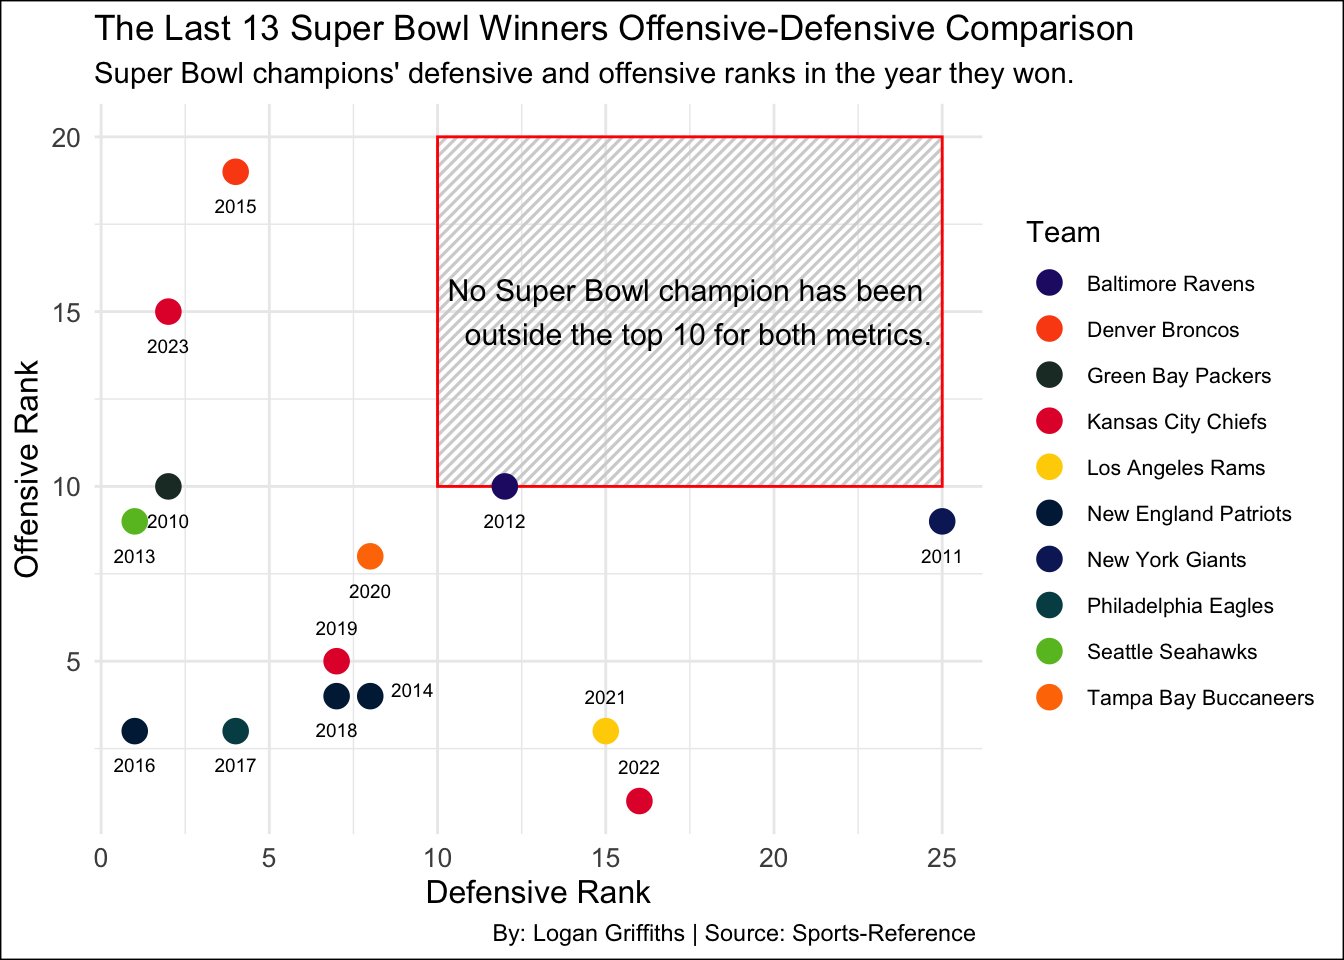
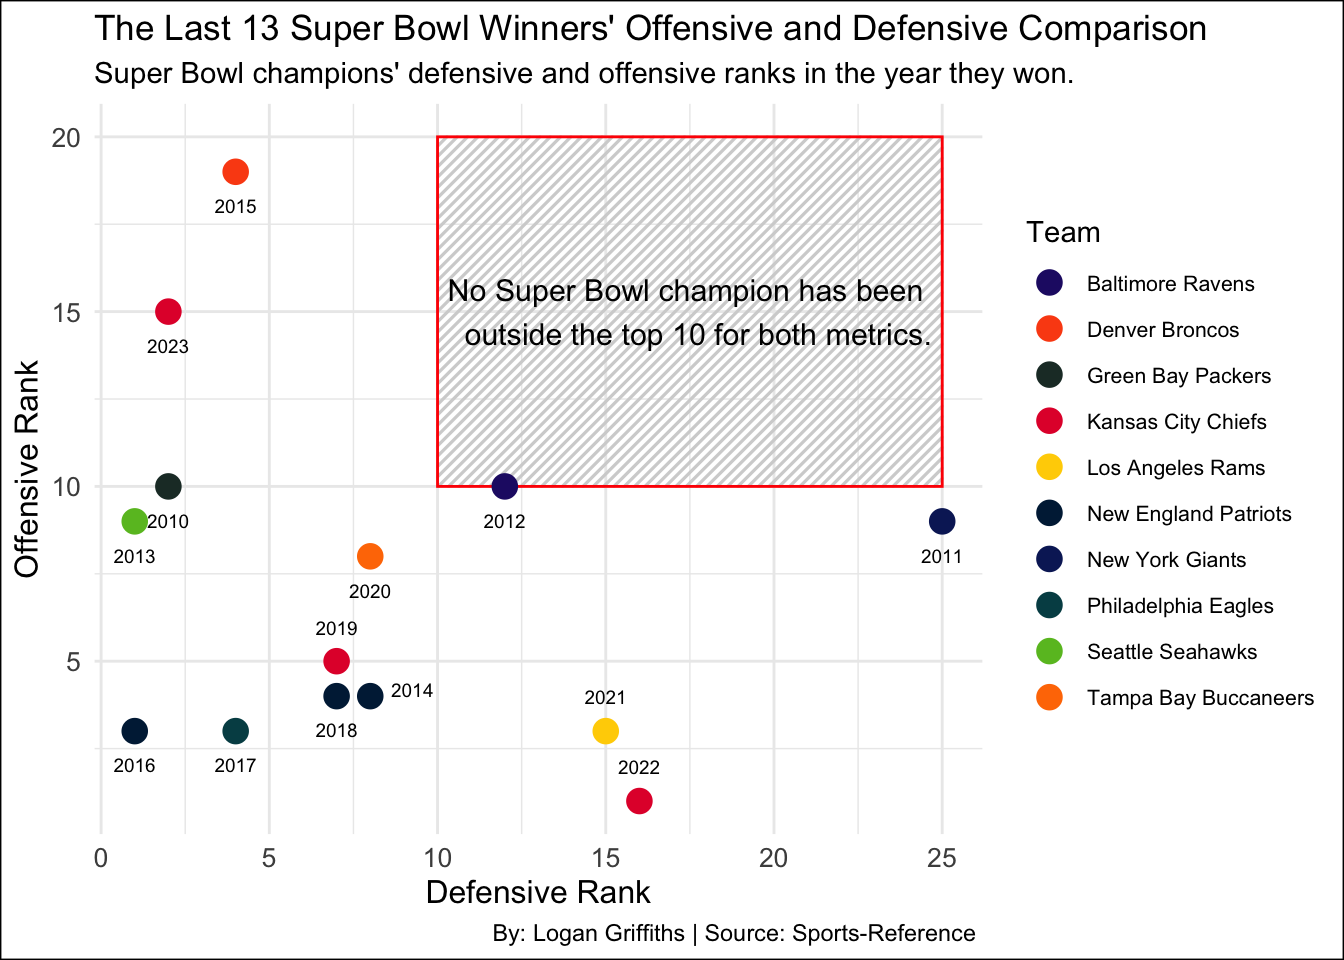
aws

Changed region(s): [[0.4375, 0.0, 0.9062, 0.0625]]

diff --git a/posts/Does-Defense-Win-Championships/Index.html b/posts/Does-Defense-Win-Championships/Index.html
@@ -253,7 +253,7 @@ pre > code.sourceCode > span > a:first-child::before { text-decoration: underlin
 <span id="cb2-21"><a href="#cb2-21" aria-hidden="true" tabindex="-1"></a>  ) <span class="sc">+</span></span>
 <span id="cb2-22"><a href="#cb2-22" aria-hidden="true" tabindex="-1"></a>  <span class="co">#Adding all of the labels for my chart.</span></span>
 <span id="cb2-23"><a href="#cb2-23" aria-hidden="true" tabindex="-1"></a>  <span class="fu">labs</span>(</span>
-<span id="cb2-24"><a href="#cb2-24" aria-hidden="true" tabindex="-1"></a>    <span class="at">title =</span> <span class="st">"The Last 13 Super Bowl Winners Offensive-Defensive Comparison "</span>,</span>
+<span id="cb2-24"><a href="#cb2-24" aria-hidden="true" tabindex="-1"></a>    <span class="at">title =</span> <span class="st">"The Last 13 Super Bowl Winners' Offensive and Defensive Comparison "</span>,</span>
 <span id="cb2-25"><a href="#cb2-25" aria-hidden="true" tabindex="-1"></a>    <span class="at">subtitle =</span> <span class="st">"Super Bowl champions' defensive and offensive ranks in the year they won."</span>,</span>
 <span id="cb2-26"><a href="#cb2-26" aria-hidden="true" tabindex="-1"></a>    <span class="at">x =</span> <span class="st">"Defensive Rank"</span>,</span>
 <span id="cb2-27"><a href="#cb2-27" aria-hidden="true" tabindex="-1"></a>    <span class="at">y =</span> <span class="st">"Offensive Rank"</span>,</span>

diff --git a/index.html b/index.html
@@ -205,7 +205,7 @@ window.Quarto = {
 
 <div class="quarto-listing quarto-listing-container-default" id="listing-listing">
 <div class="list quarto-listing-default">
-<div class="quarto-post image-right" data-index="0" data-categories="RGF0YSBEcml2ZW4gQXJ0aWNsZXM=" data-listing-date-sort="1733724000000" data-listing-file-modified-sort="1733776666863" data-listing-date-modified-sort="NaN" data-listing-reading-time-sort="9" data-listing-word-count-sort="1788">
+<div class="quarto-post image-right" data-index="0" data-categories="RGF0YSBEcml2ZW4gQXJ0aWNsZXM=" data-listing-date-sort="1733724000000" data-listing-file-modified-sort="1733776824306" data-listing-date-modified-sort="NaN" data-listing-reading-time-sort="9" data-listing-word-count-sort="1790">
 <div class="thumbnail">
 <p><a href="./posts/Does-Defense-Win-Championships/Index.html" class="no-external"></a></p><a href="./posts/Does-Defense-Win-Championships/Index.html" class="no-external">
 <p><img loading="lazy" src="./posts/Does-Defense-Win-Championships/image1.png" class="thumbnail-image"></p>
